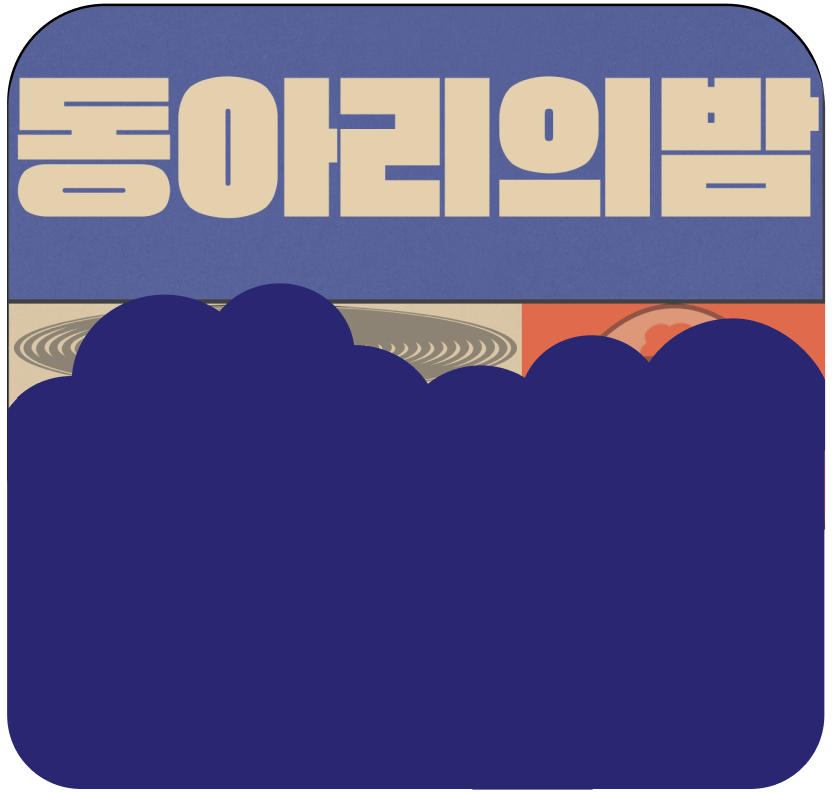
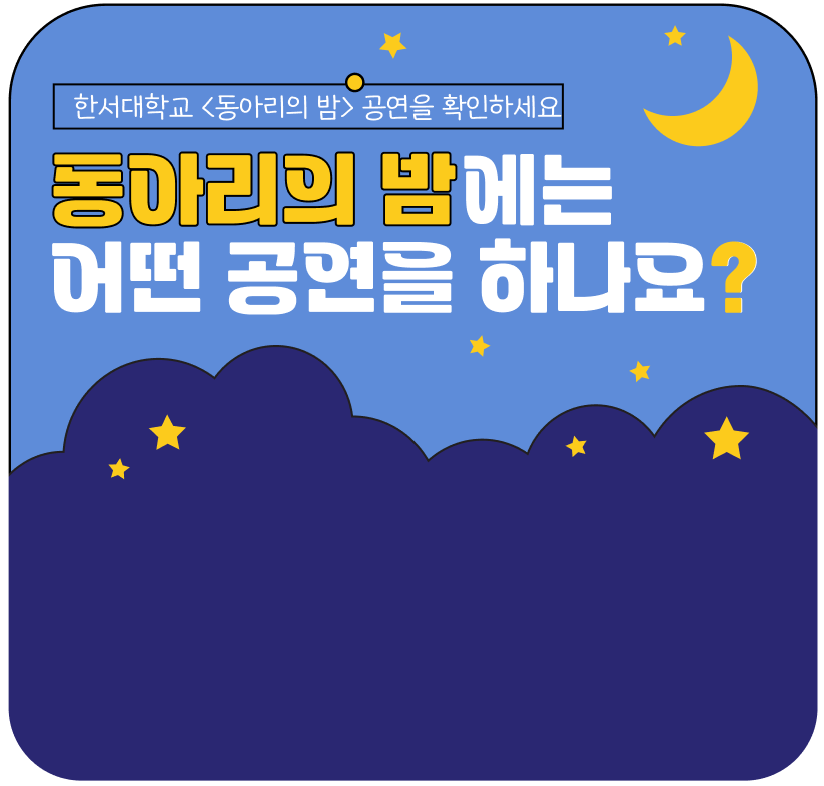
수정좀 그만했으면

diff --git a/src/jsx/PerformPage/PerformContent.jsx b/src/jsx/PerformPage/PerformContent.jsx
@@ -119,21 +119,21 @@ const performContent = [
   {
     id: 6,
     clubName: "REFRESH",
-    desc: "2ManyMC은 어쩌구 동아리로 어쩌구하는 무대를 펼칩니다. 어쩌구저쩌구 하기 때문에 어쩌고",
+    desc: "저희 한서대학교 치어리딩 동아리 Refresh는 신나는 곡과 함께 점점 고조되는 분위기로 공연을 보여드릴 예정입니다! 저희와 함께 무대를 편하고 즐겁게 즐겨주시면 감사하겠습니다",
     songList: [
-      { title: "나의 히어로 아카데미아 OST", singer: "ALL" },
-      { title: "Not Alone 오프닝", singer: "ALL" },
-      { title: "투혼가", singer: "ALL" },
-      { title: "나는나비", singer: "ALL" },
-      { title: "작은별", singer: "ALL" },
-      { title: "i love it", singer: "ALL" },
-      { title: "이게무슨일이야", singer: "ALL" },
-      { title: "예술이야", singer: "ALL" },
-      { title: "그대에게", singer: "ALL" },
+      { title: "나의 히어로 아카데미아 OST", singer: "김지원 오나현 이소은 박하은 최연우 이종현 최시은" },
+      { title: "Not Alone 오프닝", singer: "김지원 최시은 박선영 윤민정 최하린 최연우 김나연 외 3명" },
+      { title: "투혼가", singer: "김지원 오나현 이소은 박하은 윤민정 최하린 최연우 김나연 외 2명" },
+      { title: "나는나비", singer: "김지원 오나현 이소은 최연우 박선영 윤민정 이은정 안진서" },
+      { title: "작은별", singer: "김지원 오나현 이소은 최시은 박하은 최연우 이은정" },
+      { title: "i love it", singer: "김지원 오나현 박하은 최시은 최하린 이은정 장정원" },
+      { title: "이게무슨일이야", singer: "김지원 오나현 박하은 최시은 최하린 이은정 장정원" },
+      { title: "예술이야", singer: "이소은 박하은 윤민정 이종현 장정원 안진서 최하린 외 3명" },
+      { title: "그대에게", singer: "이소은 박선영 최시은 윤민정 이은정 안진서 김나연 외 4명" },
     ],
     leader: "회장:김지원",
     leader2:
-      "부원:오나현 이소은 박하은 최시은 최하린 이종현 안진서 김나연 장정원 최연우 박선영 윤민정 이은정",
+      "",
   },
   {
     id: 7,

diff --git a/src/jsx/FoodPage/FoodList.jsx b/src/jsx/FoodPage/FoodList.jsx
@@ -9,14 +9,23 @@ import 아츄1 from "../../img/아츄.png";
 import 닭강정 from "../../img/닭강정.png";
 import 닭꼬치 from "../../img/닭꼬치.png";
 
-import 타코야키 from "../../img/타코야키2.png"
+// import 타코야키 from "../../img/타코야키2.png"
+import 타코야키사진 from "../../img/타코야키사진.png";
+import 닭강정사진 from "../../img/닭강정사진.png";
+import 닭꼬치사진 from "../../img/닭꼬치사진.png";
+import 아츄사진 from "../../img/아츄사진.png";
+import 케밥사진 from "../../img/케밥사진.png";
+import 분식사진 from "../../img/분식사진.png";
+
+
+
 
 
 const FoodList=[
     {
         id: 1,
         foodLogo:타코야키1,
-        foodImg:타코야키,
+        foodImg:타코야키사진,
         foodName: "타코야키",
         menuList: [
           { menu: "추후", cost: "업데이트" },
@@ -25,7 +34,7 @@ const FoodList=[
       {
         id: 2,
         foodLogo:분식1,
-        foodImg:타코야키,
+        foodImg:분식사진,
         foodName: "분식",
         menuList: [
           { menu: "추후", cost: "업데이트" },
@@ -34,7 +43,7 @@ const FoodList=[
       {
         id: 3,
         foodLogo:케밥1,
-        foodImg:타코야키,
+        foodImg:케밥사진,
         foodName: "케밥",
         menuList: [
           { menu: "추후", cost: "업데이트" },
@@ -43,7 +52,7 @@ const FoodList=[
       {
         id: 4,
         foodLogo:닭강정,
-        foodImg:타코야키,
+        foodImg:닭강정사진,
         foodName: "닭강정",
         menuList: [
           { menu: "추후", cost: "업데이트" },
@@ -52,7 +61,7 @@ const FoodList=[
       {
         id: 5,
         foodLogo:닭꼬치,
-        foodImg:타코야키,
+        foodImg:닭꼬치사진,
         foodName: "닭꼬치",
         menuList: [
           { menu: "추후", cost: "업데이트" },
@@ -61,7 +70,7 @@ const FoodList=[
       {
         id: 6,
         foodLogo:아츄1,
-        foodImg:타코야키,
+        foodImg:아츄사진,
         foodName: "아이스크림츄러스",
         menuList: [
           { menu: "추후", cost: "업데이트" },

diff --git a/src/css/FoodPage/TruckSlider.css b/src/css/FoodPage/TruckSlider.css
@@ -34,22 +34,24 @@
   }
   
   .food-image-container {
-    width: 20%;  /* 이미지 크기 설정 */
-    padding: 10px;
+    width: 19%;  /* 이미지 크기 설정 */
+    padding: 2.5%;
     margin-right: -10%;
   }
   
   .food-img {
-    width: 100%;
-    height: auto;
     object-fit: contain;
-    margin-left: 25%;
+    width: 120%;
+    height: 120%;
+    height: auto;
+    margin-left: 29%;
+    margin-top: -17%;
   }
   
   .food-details {
     width: 70%;  /* 메뉴와 가격 영역 */
     padding-left: 0;  /* 메뉴와 가격 영역의 왼쪽 여백을 없애고 */
-    margin-left: -10%; /* 전체 영역 왼쪽으로 이동 */
+    margin-left: -8%; /* 전체 영역 왼쪽으로 이동 */
   }
   
   .food-header {
@@ -57,7 +59,7 @@
     display: flex;
     align-items: center;
     justify-content: space-between;
-    margin-top: -45%; 
+    margin-top: -45.8%; 
     margin-bottom: 20%;
     width: 100%;
     margin-left: 3%;   /* 헤더 위치 조정 시 이거 만지기기  */

diff --git a/src/jsx/HomePage/ChatBox.jsx b/src/jsx/HomePage/ChatBox.jsx
@@ -65,6 +65,27 @@ const ChatBox = () => {
     setInput("");
   };
 
+  // // 오래된 메시지 삭제 (현재 24시간)
+  // useEffect(() => {
+  //   const deleteOldMessages = async () => {
+  //     const cutoffTime = new Date().getTime() - 24 * 60 * 60 * 1000; // 24시간 전
+  //     const q = query(
+  //       collection(db, "messages"),
+  //       where("timestamp", "<", new Date(cutoffTime))
+  //     );
+  //     const snapshot = await getDocs(q);
+
+  //     snapshot.forEach(async (doc) => {
+  //       await deleteDoc(doc.ref); // 오래된 메시지 삭제
+  //     });
+  //   };
+
+  //   // 1시간마다 메시지 삭제 확인
+  //   const intervalId = setInterval(deleteOldMessages, 60 * 60 * 1000);
+
+  //   return () => clearInterval(intervalId);
+  // }, []);
+
   return (
     <div className="chat-box">
       <div className="chat-messages">

diff --git a/src/jsx/PerformPage/PerformPage.jsx b/src/jsx/PerformPage/PerformPage.jsx
@@ -1,6 +1,6 @@
 import React, { useState } from "react";
 import Footer from "../Footer";
-import PerformImg from "../../img/메인이미지2-2.png";
+import PerformImg from "../../img/메인이미지2.png";
 import "../../css/Perform.css";
 import performList from "./PerformContent";
 import PerformCard from "./PerformCard"; 

diff --git a/src/jsx/HomePage/HomePage.jsx b/src/jsx/HomePage/HomePage.jsx
@@ -2,7 +2,7 @@ import { useState } from "react";
 import Footer from "../Footer";
 import ChatBox from "./ChatBox";
 import Ticket from "./Ticket";
-import MainImg from "../../img/메인이미지1-1.png";
+import MainImg from "../../img/메인이미지.png";
 import "../../css/HomePage/Home.css";
 
 const Home = () => {
